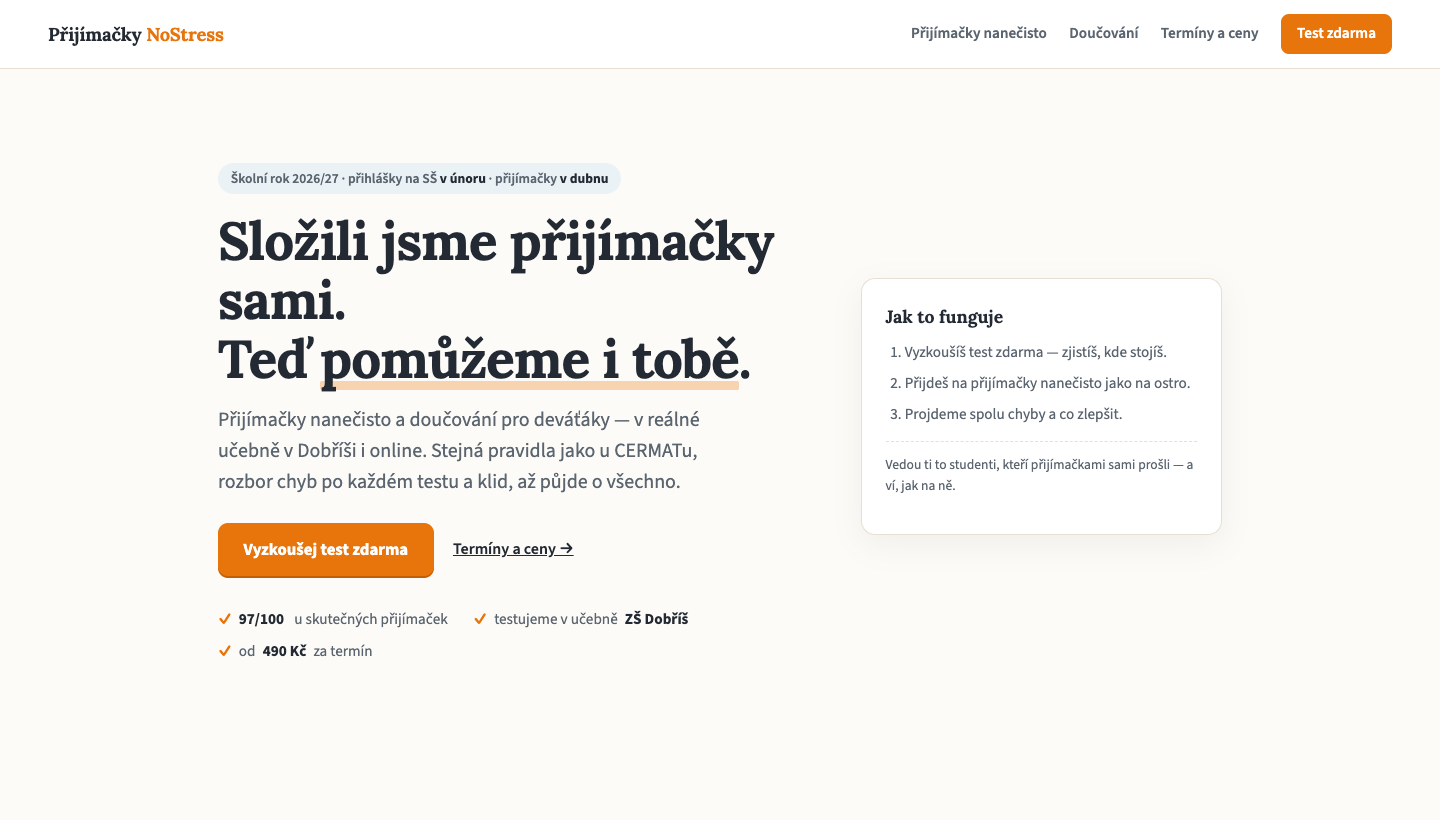
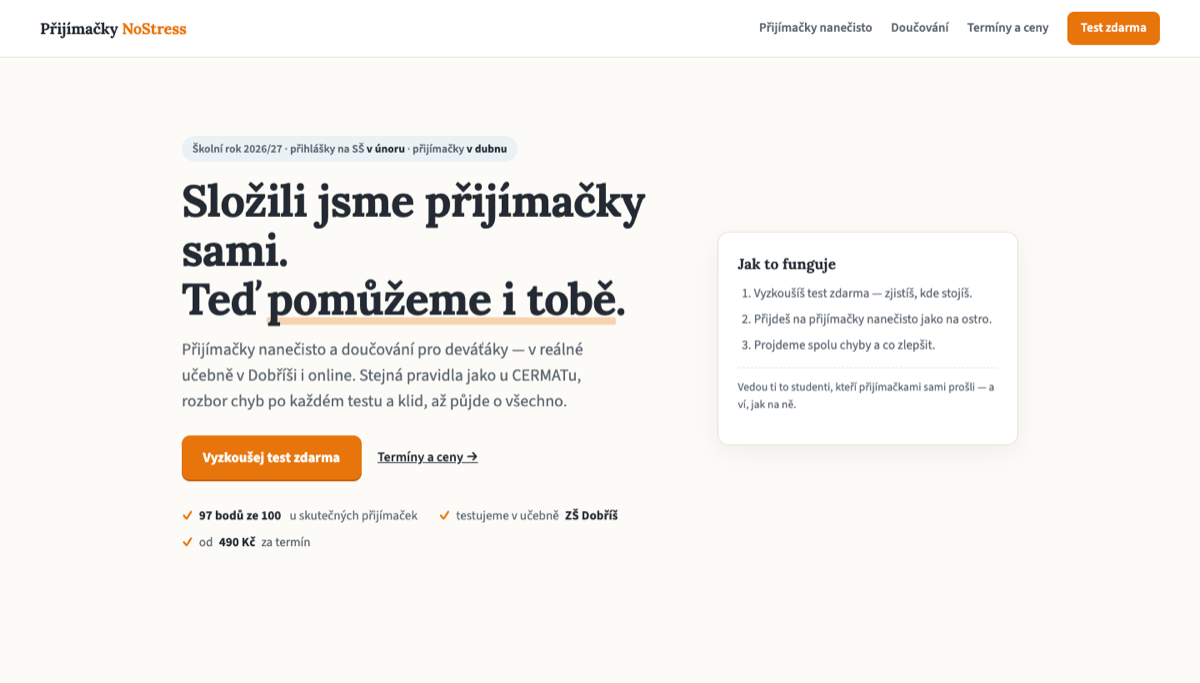
v2: teach-to-fish layer — §13 Doing this yourself, §12 kitchen-reveal, With-AI roadmap recipes, 97-points + hero glosses, renumber to 15 sections

Changed region(s): [[0.1542, 0.7379, 0.5242, 0.7687]]

diff --git a/index.html b/index.html
@@ -42,13 +42,14 @@
         <li><a href="#findings"><span class="toc-num">5</span>What's holding you back</a></li>
         <li><a href="#audit"><span class="toc-num">6</span>UX/UI audit</a></li>
         <li><a href="#styleguide"><span class="toc-num">7</span>A mini style guide</a></li>
-        <li><a href="#hero"><span class="toc-num">8</span>Hero: before &amp; after</a></li>
+        <li><a href="#hero"><span class="toc-num">8</span>Top banner (hero): before &amp; after</a></li>
         <li><a href="#blueprint"><span class="toc-num">9</span>The ground-up blueprint</a></li>
         <li><a href="#market"><span class="toc-num">10</span>Market &amp; prices</a></li>
         <li><a href="#roadmap"><span class="toc-num">11</span>Roadmap</a></li>
         <li><a href="#showcase"><span class="toc-num">12</span>How this was made</a></li>
-        <li><a href="#caveats"><span class="toc-num">13</span>Caveats</a></li>
-        <li><a href="#appendix"><span class="toc-num">14</span>Appendices</a></li>
+        <li><a href="#diy"><span class="toc-num">13</span>Doing this yourself, with AI</a></li>
+        <li><a href="#caveats"><span class="toc-num">14</span>Caveats</a></li>
+        <li><a href="#appendix"><span class="toc-num">15</span>Appendices</a></li>
       </ol>
     </nav>
     <details class="toc-mobile">
@@ -62,13 +63,14 @@
           <li><a href="#findings"><span class="toc-num">5</span>What's holding you back</a></li>
           <li><a href="#audit"><span class="toc-num">6</span>UX/UI audit</a></li>
           <li><a href="#styleguide"><span class="toc-num">7</span>A mini style guide</a></li>
-          <li><a href="#hero"><span class="toc-num">8</span>Hero: before &amp; after</a></li>
+          <li><a href="#hero"><span class="toc-num">8</span>Top banner (hero): before &amp; after</a></li>
           <li><a href="#blueprint"><span class="toc-num">9</span>The ground-up blueprint</a></li>
           <li><a href="#market"><span class="toc-num">10</span>Market &amp; prices</a></li>
           <li><a href="#roadmap"><span class="toc-num">11</span>Roadmap</a></li>
           <li><a href="#showcase"><span class="toc-num">12</span>How this was made</a></li>
-          <li><a href="#caveats"><span class="toc-num">13</span>Caveats</a></li>
-          <li><a href="#appendix"><span class="toc-num">14</span>Appendices</a></li>
+          <li><a href="#diy"><span class="toc-num">13</span>Doing this yourself, with AI</a></li>
+          <li><a href="#caveats"><span class="toc-num">14</span>Caveats</a></li>
+          <li><a href="#appendix"><span class="toc-num">15</span>Appendices</a></li>
         </ol>
       </nav>
     </details>
@@ -86,6 +88,7 @@
         <li><strong>The one urgent thing: the site is frozen in last season.</strong> The free-test page thanks November and offers signup for March; the homepage leads with an expired April notice stamped with today's date. Parents researching <em>next</em> year — right now, in June — read this as "they've wound down."</li>
         <li><strong>You do not need a rebuild.</strong> The expensive problems are small: a season reset, share previews, a price table, a font fix, a typo, a domain email. Quick wins inside your current WordPress; the blueprint in section 9 is the target picture for later.</li>
         <li><strong>Your market position is genuinely good:</strong> the big national players (Scio, online courses) cannot offer a real exam room in Dobříš run by people who just took the exam. Lean into local + personal.</li>
+        <li><strong>And one thing beyond the fix list:</strong> section 12 shows how AI made this report; section 13 shows how you can do the same for your business — with the ~$20 (≈500 Kč) monthly plan you already have.</li>
       </ul>
       <p>How to read the labels in this report:
         <span class="chip chip-observed">Observed</span> = we verified it ourselves today (June 11, 2026), with a source.
@@ -97,7 +100,7 @@
     <section id="about" aria-labelledby="about-h">
       <h2 id="about-h"><span class="secnum">2</span>What this is (and isn't)</h2>
       <p>This is an outside-in review of <a href="https://prijimackynostress.cz/">prijimackynostress.cz</a> and the business behind it: mock entrance exams (přijímačky nanečisto), tutoring (doučování), and a free sample test (test zdarma) for 9th-graders preparing for the unified entrance exam (jednotná přijímací zkouška).</p>
-      <p>It is <strong>not</strong> a school grade and not a list of demands. It is what a mentor would tell you over coffee, written down with evidence. We looked at your website, your market, and your prices — from the outside, in one afternoon. We did not see your bookings, your finances, or your customers' messages. Where we guess, we say so.</p>
+      <p>It is <strong>not</strong> a school grade and not a list of demands. It is what a mentor would tell you over coffee, written down with evidence. We looked at your website, your market, and your prices — from the outside. We did not see your bookings, your finances, or your customers' messages. Where we guess, we say so. And from section 11 on, every recommendation also shows <em>how to do it yourself with AI</em> — that part is the real gift here.</p>
     </section>
 
     <!-- ============ 3 WHAT'S WORKING ============ -->
@@ -111,7 +114,7 @@
       </div>
       <div class="finding">
         <div class="finding-head"><h3>The peer-credibility angle</h3><span class="chip chip-observed">Observed</span></div>
-        <p>"We just took this exam ourselves — and scored 97/100" is something no adult-run course can say. Parents buy trust; students buy someone who speaks their language. You have both in one story.</p>
+        <p>"We just took this exam ourselves — and scored 97 of 100 points" is something no adult-run course can say. Parents buy trust; students buy someone who speaks their language. You have both in one story.</p>
       </div>
       <div class="finding">
         <div class="finding-head"><h3>Real testimonials, not marketing quotes</h3><span class="chip chip-observed">Observed</span></div>
@@ -217,7 +220,7 @@
       <p><strong>The 20-point design checklist flagged 9 of 20 points</strong> — mid-range. One honest caveat: this is a heuristic checklist, not a law of nature. It can't see your customers, and it scores conventions, not taste. We use it to find discussion points, not to grade you.</p>
       <ul>
         <li><strong>What passed:</strong> spacing and alignment are consistent, content widths are readable, the layout adapts properly to mobile, your section cards have character, no tacky gradient buttons.</li>
-        <li><strong>What the checklist flagged, in order of impact:</strong> no clear call-to-action above the fold; the hero is a stock-photo-with-slogan pattern that says <em>mood</em> but not <em>offer</em>; body text is Roboto (the default font of the internet — your display serif has personality, your body text doesn't); call-to-action colors change from section to section (orange, black, blue, green); icons mix emoji with line icons.</li>
+        <li><strong>What the checklist flagged, in order of impact:</strong> no clear call-to-action above the fold (the part visible before scrolling); the hero — the big top banner of the homepage — is a stock-photo-with-slogan pattern that says <em>mood</em> but not <em>offer</em>; body text is Roboto (the default font of the internet — your display serif has personality, your body text doesn't); call-to-action colors change from section to section (orange, black, blue, green); icons mix emoji with line icons.</li>
       </ul>
 
       <h3>What a first-time parent actually sees</h3>
@@ -251,7 +254,7 @@
 
       <h3>Five usability observations (Krug walkthrough)</h3>
       <ol>
-        <li><strong>The homepage knows who you are, but not what it wants from the visitor.</strong> Looking at the first screen: logo, menu, "LETOS BEZ STRESU!" — and then an operations notice. My eye searches for "what do I do here?" and finds nothing until I scroll. Every landing visit starts with admin noise instead of the offer. <em>Change: hero = one sentence of offer + one button (the free test). Announcements move to a thin banner.</em></li>
+        <li><strong>The homepage knows who you are, but not what it wants from the visitor.</strong> Looking at the first screen: logo, menu, "LETOS BEZ STRESU!" — and then an operations notice. My eye searches for "what do I do here?" and finds nothing until I scroll. Every landing visit starts with admin noise instead of the offer. <em>Change: top banner (hero) = one sentence of offer + one button (the free test). Announcements move to a thin banner.</em></li>
         <li><strong>The three-second test fails on the slogan.</strong> "This year without stress!" sets a mood but a rushed parent can't tell in three seconds: exam prep, 9th grade, Dobříš, from 490 Kč. The information exists — lower on the page. <em>Change: subheadline that says who/what/where in plain words (section 9.6 has three drafts).</em></li>
         <li><strong>The highest-intent moment splits into two doors.</strong> Booking a single session opens a proper checkout; booking a package opens a Google Form. The buyer with the most money to spend gets the most improvised path — a classic "wait, which one?" moment at exactly the wrong time.</li>
         <li><strong>Stale dates drain trust silently.</strong> Past sessions presented as "nearest dates" + an expired notice stamped with today's date = the site looks abandoned even though the business isn't. For a service parents trust with their kid's future, "is this still running?" is the most expensive doubt possible.</li>
@@ -298,8 +301,8 @@
 
     <!-- ============ 8 HERO BEFORE/AFTER ============ -->
     <section id="hero" aria-labelledby="hero-h">
-      <h2 id="hero-h"><span class="secnum">8</span>Homepage hero: before &amp; after</h2>
-      <p class="section-intro">One screen, redesigned for the question every visitor brings: <em>"Is this for my kid, and what do I do next?"</em></p>
+      <h2 id="hero-h"><span class="secnum">8</span>Homepage top banner (the "hero"): before &amp; after</h2>
+      <p class="section-intro">The hero is the first screen of a website — the part a visitor sees before any scrolling. One screen, redesigned for the question every visitor brings: <em>"Is this for my kid, and what do I do next?"</em></p>
 
       <div class="figure-pair">
         <figure>
@@ -307,7 +310,7 @@
           <figcaption><strong>Before</strong> — mood without an offer; the first button is below the fold. <span class="stamp">Captured June 11, 2026.</span></figcaption>
         </figure>
         <figure>
-          <img src="assets/after-hero-mockup.png" alt="After: proposed hero — headline 'Složili jsme přijímačky sami. Teď pomůžeme i tobě.', subline describing mock exams in Dobříš and online, an orange button 'Vyzkoušej test zdarma', a trust row with 97/100, ZŠ Dobříš and 490 Kč, and a 'Jak to funguje' side card." width="1200" height="683">
+          <img src="assets/after-hero-mockup.png" alt="After: proposed top banner — headline 'Složili jsme přijímačky sami. Teď pomůžeme i tobě.', subline describing mock exams in Dobříš and online, an orange button 'Vyzkoušej test zdarma', a trust row with 97 bodů ze 100, ZŠ Dobříš and 490 Kč, and a 'Jak to funguje' side card." width="1200" height="683">
           <figcaption><strong>After</strong> — a working proposal, built with the section-7 tokens. <a href="mockups/hero.html">Open it live, full-screen →</a></figcaption>
         </figure>
       </div>
@@ -316,7 +319,7 @@
       <ol>
         <li><strong>The headline says the one thing only you can say.</strong> „Složili jsme přijímačky sami. Teď pomůžeme i tobě." — your unfair advantage, in the first second. „Letos bez stresu!" becomes the supporting promise, not the whole message.</li>
         <li><strong>One orange button: the free test.</strong> The single lowest-risk next step for a new visitor, top right in the nav and front-center in the hero. Everything else is a quiet text link.</li>
-        <li><strong>The trust row answers the three parent doubts in one line:</strong> does it work (97/100), is it real (a real classroom at ZŠ Dobříš), what does it cost (from 490 Kč). No scrolling required.</li>
+        <li><strong>The trust row — the line of proof points under the headline — answers the three parent doubts at once:</strong> does it work (97 of 100 points), is it real (a real classroom at ZŠ Dobříš), what does it cost (from 490 Kč). No scrolling required.</li>
         <li><strong>The season chip replaces stale announcements.</strong> „Přihlášky v únoru · přijímačky v dubnu" is true all year and quietly says <em>we know the calendar that rules your family's next 10 months</em>. Operational notices move to a thin banner only when actually current.</li>
       </ol>
       <p>Try the <a href="mockups/hero.html">live version</a> on your phone — it's built mobile-first, because that's where parents will see it (today's mobile homepage opens with an expired notice instead; see section 6).</p>
@@ -369,7 +372,7 @@
       <h3>9.3 Modules and seams: build from a few deep blocks</h3>
       <p>From software design (John Ousterhout): build from <em>a few blocks that each do one big job behind a simple face</em>. You drop a block into a page and fill in a short form — you never rebuild the logic. This applies to your content too: one testimonial format reused everywhere beats ten hand-made quotes.</p>
       <ul>
-        <li><strong>HeroBlock</strong> — headline + subline + one button. Reused at the top of every page.</li>
+        <li><strong>HeroBlock</strong> (the top banner) — headline + subline + one button. Reused at the top of every page.</li>
         <li><strong>PriceTable</strong> — session + package prices from <em>one source</em>. Edit once, updates on Home, Mock exams, and Dates &amp; prices.</li>
         <li><strong>TrustStrip</strong> — thin row under the hero: schools, student count, rating.</li>
         <li><strong>TestimonialCard</strong> — quote + full name + school + photo + permission flag. The single shape behind Reviews and the homepage.</li>
@@ -399,7 +402,7 @@
       <p>You already run WordPress + Elementor + WooCommerce: booking and card payment for a 490 Kč session work <em>today</em>, and you can edit pages yourselves between your own exams. Your real problems — package price visibility, trust signals, Gmail, missing structured data, a fragile free-test path — are content and settings fixes. Switching platforms would not fix a single one of them.</p>
       <p>A static or managed site (Framer, Webflow, plain HTML) would buy you speed, fewer moving parts, and near-zero maintenance — but it costs a full rebuild during your own exam year, and you would have to re-solve booking and payments, which WooCommerce already handles. <strong>Recommendation: stay on WordPress now.</strong> Spend the saved effort on the five quick wins and one blog post a month. Revisit only if WordPress upkeep starts eating real time.</p>
 
-      <h3>9.6 Three hero headline directions (drafts to discuss)</h3>
+      <h3>9.6 Three headline directions for the top banner (drafts to discuss)</h3>
       <ol>
         <li><strong>Peer-proof:</strong> „Složili jsme přijímačky sami. Teď pomůžeme i tobě." <span class="small">(We passed the entrance exams ourselves. Now we'll help you too.)</span> — turns "two 19-year-olds" from a doubt into the reason to trust you.</li>
         <li><strong>Outcome:</strong> „Dostaň se na střední, kterou si vybereš." <span class="small">(Get into the high school you choose.)</span> — names the real goal the parent is paying for.</li>
@@ -481,7 +484,7 @@
       <ul>
         <li><strong>You win on price and entry barrier.</strong> <span class="chip chip-observed">Observed</span> A family can try you for 490 Kč. The market leader asks 14 500 Kč upfront. That is not just cheaper — it is a completely different decision for the parent: no sunk cost, no leap of faith.</li>
         <li><strong>You win on geography — if you say it loudly.</strong> <span class="chip chip-observed">Observed</span> Every national player is online or big-city. A real exam room at ZŠ Dobříš with zero commute is something they cannot copy without local partners. Right now the site whispers this; it should shout it.</li>
-        <li><strong>You win on peer credibility.</strong> <span class="chip chip-observed">Observed</span> "Scored 97/100 on this exact exam" beats "our experienced lecturers" for a 15-year-old. No national brand can say it.</li>
+        <li><strong>You win on peer credibility.</strong> <span class="chip chip-observed">Observed</span> "Scored 97 of 100 points on this exact exam" beats "our experienced lecturers" for a 15-year-old. No national brand can say it.</li>
         <li><strong>You lose on breadth and continuity.</strong> <span class="chip chip-observed">Observed</span> Season-long courses with homework support (to-das, zkousky-nanecisto) serve families who want full-service prep. Don't chase them — position as the honest check-up: "find out where you really stand, before or alongside any course."</li>
         <li><strong>You lose on search visibility — for now.</strong> <span class="chip chip-inferred">Inferred</span> Years of SEO put the big brands first on Google. Your channel is the one they can't use: school corridors, class WhatsApp groups, teachers, and the Dobříš word-of-mouth network. Treat local presence as your main distribution, with the website as the place it converts.</li>
       </ul>
@@ -498,7 +501,7 @@
     <!-- ============ 11 ROADMAP ============ -->
     <section id="roadmap" aria-labelledby="roadmap-h">
       <h2 id="roadmap-h"><span class="secnum">11</span>Roadmap: Now / Next / Later</h2>
-      <p class="section-intro">Everything above, turned into a sequence two students can actually do. Effort is honest; impact is our judgment <span class="chip chip-inferred">Inferred</span>. Each row points back to its evidence.</p>
+      <p class="section-intro">Everything above, turned into a sequence two students can actually do. Effort is honest; impact is our judgment <span class="chip chip-inferred">Inferred</span>. Each row points back to its evidence. New in this version: every row carries a <strong>With AI</strong> line — how to do the task with the ~$20 AI plan you already have. Those lines assume the ten-minute business file from section 13, and any time notes in them are honest estimates, not promises.</p>
 
       <div class="roadmap-stage">
         <h3><span class="stage-pill">Now</span> June — wake the site up <span class="effort">(≈ 2–3 evenings total)</span></h3>
@@ -506,12 +509,12 @@
           <table>
             <thead><tr><th>Do</th><th class="num">Effort</th><th>Why</th></tr></thead>
             <tbody>
-              <tr><td><strong>Season reset:</strong> make the free test evergreen (delivered by email, not tied to an event), auto-hide past dates, retire the April notice</td><td class="num">1 evening</td><td>The frozen-season finding — next-year parents are searching <em>now</em>, and the site tells them you're gone</td></tr>
-              <tr><td><strong>SEO plugin</strong> (Rank Math/Yoast): meta descriptions, share images (OG), short titles, LocalBusiness + FAQ markup</td><td class="num">2 hours</td><td>The link-preview and rich-results findings — makes every WhatsApp share and Google result work for you</td></tr>
-              <tr><td><strong>Fix the font loading</strong> (regenerate Elementor fonts over HTTPS) + the „PŘÍJÍMAČKY" H1 typo</td><td class="num">30 min</td><td>The font and typo findings — visible quality, trivial cost</td></tr>
-              <tr><td><strong>Install GA4 + Search Console</strong></td><td class="num">1 evening</td><td>The analytics finding — you can't improve what you can't see</td></tr>
-              <tr><td><strong>Legal afternoon:</strong> IČO in the footer, cookie consent plugin, testimonial consent or „Václav S." format</td><td class="num">1 afternoon</td><td>The legal finding — cheap now, expensive later</td></tr>
-              <tr><td><strong>Domain email</strong> (ahoj@…) forwarding to Gmail</td><td class="num">1 hour</td><td>The email finding — quiet trust signal at the front door</td></tr>
+              <tr><td><strong>Season reset:</strong> make the free test evergreen (delivered by email, not tied to an event), auto-hide past dates, retire the April notice<p class="withai"><strong>With AI:</strong> paste the page text into your AI. Ask for an evergreen version plus a list of every dated detail it found. Check that list against the live page yourself, then edit in Elementor.</p></td><td class="num">1 evening</td><td>The frozen-season finding — next-year parents are searching <em>now</em>, and the site tells them you're gone</td></tr>
+              <tr><td><strong>SEO plugin</strong> (Rank Math/Yoast): meta descriptions, share images (OG), short titles, LocalBusiness + FAQ markup<p class="withai"><strong>With AI:</strong> for setup, ask for steps for your exact WordPress and paste errors back. Then per page: give it your business file and the page text, ask for three meta descriptions under 155 characters — pick one; you know your parents best.</p></td><td class="num">2 hours</td><td>The link-preview and rich-results findings — makes every WhatsApp share and Google result work for you</td></tr>
+              <tr><td><strong>Fix the font loading</strong> (regenerate Elementor fonts over HTTPS) + the „PŘÍJÍMAČKY" H1 typo<p class="withai"><strong>With AI:</strong> ask for click-by-click steps to regenerate Elementor's fonts over HTTPS; paste a screenshot if you get stuck. The typo is faster by hand.</p></td><td class="num">30 min</td><td>The font and typo findings — visible quality, trivial cost</td></tr>
+              <tr><td><strong>Install GA4 + Search Console</strong><p class="withai"><strong>With AI:</strong> ask for a step-by-step for your exact site and do it together, pasting anything confusing back. Then once a month: paste the numbers in and ask what changed.</p></td><td class="num">1 evening</td><td>The analytics finding — you can't improve what you can't see</td></tr>
+              <tr><td><strong>Legal afternoon:</strong> IČO in the footer, cookie consent plugin, testimonial consent or „Václav S." format<p class="withai"><strong>With AI:</strong> it drafts the Czech parental-consent form and a cookie-plugin shortlist — drafts only: have an adult you trust read the consent text before you use it.</p></td><td class="num">1 afternoon</td><td>The legal finding — cheap now, expensive later</td></tr>
+              <tr><td><strong>Domain email</strong> (ahoj@…) forwarding to Gmail<p class="withai"><strong>With AI:</strong> mostly clicking in your domain admin. Ask for the exact steps for your provider; paste errors when stuck.</p></td><td class="num">1 hour</td><td>The email finding — quiet trust signal at the front door</td></tr>
             </tbody>
           </table>
         </div>
@@ -523,12 +526,12 @@
           <table>
             <thead><tr><th>Do</th><th class="num">Effort</th><th>Why</th></tr></thead>
             <tbody>
-              <tr><td><strong>New hero + one action color</strong> per sections 7–8 (the mockup is a working start)</td><td class="num">1–2 days</td><td>Audit — the first screen finally sells</td></tr>
-              <tr><td><strong>Visible price table</strong> (1/3/6/9 sessions) + packages as real checkout products + „doučování od X Kč"</td><td class="num">½ day</td><td>The pricing and checkout findings — removes friction exactly where money changes hands</td></tr>
-              <tr><td><strong>Google Business Profile + Mapy.cz listing</strong></td><td class="num">1 evening</td><td>Section 10 — "doučování Dobříš" on the map likely beats classic SEO locally</td></tr>
-              <tr><td><strong>Email nurture:</strong> welcome email + monthly tips for the free-test list</td><td class="num">½ day</td><td>Section 9.4 — turns the lead magnet into bookings by October</td></tr>
-              <tr><td><strong>Two blog posts before October</strong> („Jak se připravit na přijímačky 2027", „Termíny, přihlášky a DiPSy 2027")</td><td class="num">2 evenings</td><td>Section 9.2 — the only channel that compounds; September searches start it</td></tr>
-              <tr><td><strong>Collect consented photo testimonials</strong> at autumn sessions (a one-page consent form)</td><td class="num">ongoing</td><td>The legal finding + section 3 — your strongest proof, made legal and stronger</td></tr>
+              <tr><td><strong>New hero (the homepage top banner) + one action color</strong> per sections 7–8 (the mockup is a working start)<p class="withai"><strong>With AI:</strong> show it the section-8 mockup and your current page; ask for an Elementor build checklist. Build one block at a time, comparing against the mockup after each.</p></td><td class="num">1–2 days</td><td>Audit — the first screen finally sells</td></tr>
+              <tr><td><strong>Visible price table</strong> (1/3/6/9 sessions) + packages as real checkout products + „doučování od X Kč"<p class="withai"><strong>With AI:</strong> the price levels are your call — ask for three package-pricing options with reasoning, never for the decision. Then give it your final prices and ask for clean table copy.</p></td><td class="num">½ day</td><td>The pricing and checkout findings — removes friction exactly where money changes hands</td></tr>
+              <tr><td><strong>Google Business Profile + Mapy.cz listing</strong><p class="withai"><strong>With AI:</strong> ask for the exact setup steps for both listings; let it draft your business description from the business file — then trim it until it sounds like you.</p></td><td class="num">1 evening</td><td>Section 10 — "doučování Dobříš" on the map likely beats classic SEO locally</td></tr>
+              <tr><td><strong>Email nurture:</strong> welcome email + monthly tips for the free-test list<p class="withai"><strong>With AI:</strong> write the welcome email yourself in five sentences first. Ask for two friendlier variants and one shorter one. Send the one that sounds like you — because it is.</p></td><td class="num">½ day</td><td>Section 9.4 — turns the lead magnet into bookings by October</td></tr>
+              <tr><td><strong>Two blog posts before October</strong> („Jak se připravit na přijímačky 2027", „Termíny, přihlášky a DiPSy 2027")<p class="withai"><strong>With AI:</strong> first write five bullets yourself — what you would tell a parent. Then ask it to grow them into a draft. Fix every line that does not sound like you.</p></td><td class="num">2 evenings</td><td>Section 9.2 — the only channel that compounds; September searches start it</td></tr>
+              <tr><td><strong>Collect consented photo testimonials</strong> at autumn sessions (a one-page consent form)<p class="withai"><strong>With AI:</strong> it drafts the one-page consent form and the message to parents; collecting signatures and photos is human work — yours.</p></td><td class="num">ongoing</td><td>The legal finding + section 3 — your strongest proof, made legal and stronger</td></tr>
             </tbody>
           </table>
         </div>
@@ -551,14 +554,14 @@
       </div>
 
       <div class="callout">
-        <p><strong>If you do only three things:</strong> the season reset, the SEO plugin, and the price table. One week of evenings, and the site goes from "are they still running?" to "this is exactly what we need, and it costs 490 Kč to find out."</p>
+        <p><strong>If you do only three things:</strong> the season reset, the SEO plugin, and the price table. One week of evenings, and the site goes from "are they still running?" to "this is exactly what we need, and it costs 490 Kč to find out." Every one of them has a With-AI line above — none needs more than the AI plan you already pay for.</p>
       </div>
     </section>
 
     <!-- ============ 12 SHOWCASE ============ -->
     <section id="showcase" aria-labelledby="showcase-h">
       <h2 id="showcase-h"><span class="secnum">12</span>How this report was made</h2>
-      <p class="section-intro">This report is also a demo. Everything below was done in one afternoon by one person directing a team of AI tools. We document it honestly — including what failed — because the same approach could work for your business.</p>
+      <p class="section-intro">This report is also a demo. Version 1 was made in one afternoon by one person directing a team of AI tools; this version added a second working session. We document it honestly — including what failed — because the same approach can work for your business, and section 13 shows how.</p>
 
       <h3>The toolchain, and what each tool actually did</h3>
       <div class="table-wrap">
@@ -601,31 +604,79 @@
         <li><strong>A human reads everything last.</strong> Mark reviewed this page end-to-end before you got the link. AI drafted; a human signed.</li>
       </ul>
 
-      <h3>What this could do for <em>your</em> business</h3>
-      <p><span class="chip chip-inferred">Inferred</span> — ideas to discuss, not homework:</p>
-      <ul>
-        <li><strong>Content engine for the seasonal calendar:</strong> draft the monthly blog post ("Jak se připravit na přijímačky" series), then you fact-check and add your voice. An afternoon per month becomes an hour.</li>
-        <li><strong>Practice-material assistant:</strong> generate variations of exercise types you already teach — you stay the editor and quality gate, which is exactly the part you're best at.</li>
-        <li><strong>Parent communication:</strong> results emails, FAQ answers, booking reminders — drafted in seconds, personalized by you.</li>
-        <li><strong>The honest limit:</strong> AI output in Czech needs your native review, AI "facts" need checking, and none of it replaces what actually sells your product — two people who passed the exam, in the room.</li>
-      </ul>
+      <h3>What making this actually required</h3>
+      <p>Honestly: a paid AI-coding setup (Claude Code), a second AI (Codex) for cross-review, an automated browser for evidence — and the real ingredient, a practiced workflow built over many months. Mark's full setup is public if you're curious: <a href="https://mark-c4r.github.io/notes/factory-overview/">the factory overview</a>. Read it as the endgame museum, not the entry fee. <strong>You need none of it to start.</strong></p>
+
+      <h3>Could a ~$20 chat plan do this? Mostly yes — by hand</h3>
+      <p>The honest split is <em>by hand vs. automated</em>, not <em>possible vs. impossible</em>. Any ~$20 plan (Gemini, ChatGPT, Claude) can do the thinking parts of this report: research a market, reason about a website's weaknesses, draft every text, and critique work you paste into it — including getting a second opinion by pasting the same work into a <em>different</em> AI. What our setup added was automation: many research agents working at once, browser screenshots taken automatically, review gates that run every time, one-command publishing. That changed the speed and the strength of the evidence — <strong>not the intelligence</strong>. Which is exactly why section 13 exists.</p>
+      <p class="small">What more access would have improved (customer interviews, your analytics, mystery-shop pricing) is listed in appendix C.</p>
     </section>
 
-    <!-- ============ 13 CAVEATS ============ -->
+    <!-- ============ 13 DOING THIS YOURSELF ============ -->
+    <section id="diy" aria-labelledby="diy-h">
+      <h2 id="diy-h"><span class="secnum">13</span>Doing this yourself, with AI</h2>
+      <p class="section-intro">Skills that outlast the models. <span class="chip chip-inferred">Inferred</span> — this section is our working advice; treat it like advice from a friend who does this daily, not like a law.</p>
+
+      <p>You already use AI to ask questions. This section is about the next step: using it for real, <strong>accountable</strong> work — pages parents will read, emails that book sessions. The method has a name: <strong>assisted self-paced learning</strong>. Your business is the course. Real tasks, your own money and time on the line, results you can check within a week. We show the ropes and the common traps; you set the pace. There is no syllabus — AI is learned by doing, not by reading about doing.</p>
+      <p>One honest note before the practical part: several times in the past year, a different tool briefly had the strongest model. That is normal now. So don't build your habits on one brand — build the things that move with you: a context file, a verification habit, your own judgment. A ~$20/month (≈500 Kč) plan on any major tool — Gemini, ChatGPT, or Claude — is enough for everything in this section and every "With AI" line in section 11. On heavy days you will hit a usage limit and wait a few hours: a scheduling problem, not a wall. And you study cybernetics — you already think in systems and feedback loops. This is that, applied.</p>
+
+      <h3>13.1 The first hour: two things you'll reuse in any AI tool</h3>
+      <p><strong>1 · The business file.</strong> Write a short note (any notes app) and paste it at the start of every AI chat, in every tool:</p>
+      <ul>
+        <li><strong>What we sell:</strong> mock exams (přijímačky nanečisto) at 490 Kč, in Dobříš and online; individual tutoring (doučování)</li>
+        <li><strong>Who buys / who attends:</strong> parents of 9th-graders decide; the students attend</li>
+        <li><strong>Our voice:</strong> friendly, student-to-student, informal Czech („ty")</li>
+        <li><strong>Constraints:</strong> two founders, our own school workload, WordPress + Elementor, small budget</li>
+        <li><strong>This season's goal:</strong> one line — see below</li>
+      </ul>
+      <p>Ten minutes, once. It makes every answer measurably better, and it is the beginner version of what professionals call a context harness — it works the same in every tool, today and after the next model leapfrog.</p>
+      <p><strong>2 · The mission line.</strong> The first line of that file is the season's business outcome: <em>„Naplnit podzimní termíny."</em> (Fill the autumn dates.) "Learn AI" is not a mission — it has no finish line. Fill the dates <em>using</em> AI, and the learning happens on the way.</p>
+      <p><strong>The habit that compounds:</strong> whenever an AI result surprises you — good or bad — add one line to the file about what worked. Three months of those lines teach you more than any course.</p>
+
+      <h3>13.2 Four skills, shown by this report</h3>
+      <p class="small">The names in parentheses come from Anthropic's free <a href="https://anthropic.skilljar.com/ai-fluency-framework-foundations">AI Fluency course</a> (there is a students edition). The skills themselves are tool-independent.</p>
+
+      <h4>Handing off (Delegation)</h4>
+      <p>Before any task, one check: is it <strong>downhill</strong> — clear, with a result you can verify ("rewrite this page", "list every dated detail")? Hand it to AI. Is it <strong>uphill</strong> — vague, no way to check ("what should our price be")? Think first; ask AI for options, never for the decision. This report handed data-gathering and screenshots to AI agents; every verdict stayed human. <em>Your turn: the season-reset row in section 11.</em></p>
+
+      <h4>Explaining (Description)</h4>
+      <p>AI quality tracks the quality of what you tell it. This report ran on a folder of context files about your business; your business file from 13.1 is the same thing at one-page scale. The difference between a generic answer and a useful one is usually the context, not the model. <em>Your turn: the meta-descriptions row in section 11.</em></p>
+
+      <h4>Judging (Discernment)</h4>
+      <p>Treat every AI claim as a draft until you check it. Our own first automated check said your free-test page was dead — the verification rule caught the error, and the finding got better instead of louder (appendix A tells that story honestly). One more exercise worth a single evening: <strong>run the same real task in two different AIs and compare.</strong> You will learn more about both tools — and about the task — than any review article can tell you.</p>
+
+      <h4>Staying responsible (Diligence)</h4>
+      <p>AI drafts; the person who publishes answers for it. This rule appears twice in this report: once as a finding about your site (students' full names in testimonials — section 5), and once in how the report itself was made — a second AI flagged student names visible in our screenshots, and a human removed them before anything went online. Same rule, both directions.</p>
+
+      <h3>13.3 Keep going</h3>
+      <p>If you want a guided start, one pointer is enough: <a href="https://couchto5k.ai/">couchto5k.ai</a> — free at the time of writing (June 2026), about 10 minutes a day, designed for any major AI plan. If you want the vocabulary behind the four skills above, the <a href="https://anthropic.skilljar.com/ai-fluency-framework-foundations">AI Fluency course</a> is free and short. And if you ever try Claude, there is a good guide in Czech: <a href="https://www.marigold.cz/ai/claude-cowork-kompletni-pruvodce/">marigold.cz</a>.</p>
+      <p>Plan on roughly ten focused hours of real use before AI starts feeling like a teammate instead of a toy <span class="chip chip-inferred">Inferred</span>. The fastest way through those hours: <strong>you and Šimon show each other one AI-assisted win every week.</strong> Small, real, done — that cadence beats any course schedule.</p>
+      <p><strong>Five beginner traps</strong> (we have watched every one of these happen):</p>
+      <ul>
+        <li>Trusting an AI "fact" without checking it — always verify before you publish.</li>
+        <li>Prompting without context — the business file exists exactly for this.</li>
+        <li>Letting AI write Czech unsupervised — it is good, but your native ear is the editor.</li>
+        <li>Asking AI to <em>decide</em> instead of to <em>draft options</em> — decisions are yours.</li>
+        <li>Collecting clever prompts instead of finishing real tasks — done beats clever.</li>
+      </ul>
+      <p>And the honest limits, so this section doesn't oversell: AI-written Czech needs your read, AI claims need your check, and none of this replaces the thing that actually sells your product — two people who passed the exam, in the room.</p>
+    </section>
+
+    <!-- ============ 14 CAVEATS ============ -->
     <section id="caveats" aria-labelledby="caveats-h">
-      <h2 id="caveats-h"><span class="secnum">13</span>Caveats — read this before acting</h2>
+      <h2 id="caveats-h"><span class="secnum">14</span>Caveats — read this before acting</h2>
       <ul>
         <li><strong>Outside-in, one afternoon.</strong> We never saw your bookings, revenue, email list, or customer messages. Numbers from your perspective may change some recommendations.</li>
         <li><strong>We did not talk to your customers.</strong> Before bigger moves, ask five parents why they bought. Their words beat our guesses.</li>
         <li><strong>Prices were checked today</strong> (June 11, 2026) and can change. Each price in section 10 carries its source.</li>
-        <li><strong>AI-assisted, human-reviewed.</strong> Section 12 explains exactly which tools did what, and what their limits are.</li>
+        <li><strong>AI-assisted, human-reviewed.</strong> Section 12 explains exactly which tools did what, and what their limits are — and section 13 shows how to use the same approach yourself.</li>
         <li><strong>This link is public-but-unlisted.</strong> Search engines are asked not to index it, but anyone with the link can read it. We plan to take it down within ~30 days — save what you need.</li>
       </ul>
     </section>
 
     <!-- ============ 14 APPENDICES ============ -->
     <section id="appendix" aria-labelledby="appendix-h">
-      <h2 id="appendix-h"><span class="secnum">14</span>Appendices</h2>
+      <h2 id="appendix-h"><span class="secnum">15</span>Appendices</h2>
       <details class="appendix">
         <summary>A · How we verified the free-test finding</summary>
         <p>Our very first automated check of /testzdarma/ (12:10 today) returned a 404 — "page not found." That would have been the headline finding: <em>broken lead-gen funnel</em>. But one failed fetch isn't evidence, so the rule was: confirm on every URL variant with a real browser, or downgrade the claim.</p>
@@ -645,6 +696,7 @@
           <li><strong>Real local landscape scan</strong> — manual, 30 minutes: Dobříš/Příbram parent groups on Facebook, school notice boards, DDM course lists.</li>
           <li><strong>Mystery-shop pricing</strong> of Scio and to-das smaller packages.</li>
           <li><strong>Google Business Profile + Mapy.cz presence check</strong> — being findable on the map for "doučování Dobříš" may matter more locally than classic SEO.</li>
+          <li><strong>A native-Czech copy pass and a second human reviewer</strong> — the two quality steps this report itself would add next.</li>
         </ul>
       </details>
     </section>

diff --git a/styles.css b/styles.css
@@ -237,6 +237,17 @@ code {
 .stage-pill.later { background: var(--ink-faint); }
 .effort { font-size: var(--t-small); color: var(--ink-faint); font-variant-numeric: tabular-nums; white-space: nowrap; }
 
+/* ---------- With-AI recipe lines (roadmap) ---------- */
+
+.withai {
+  margin: 0.45rem 0 0;
+  font-size: 0.9rem;
+  color: var(--ink-soft);
+  border-left: 2px solid var(--accent-wash);
+  padding-left: 0.6rem;
+}
+.withai strong { color: var(--accent-ink); font-weight: 650; }
+
 /* ---------- Appendix ---------- */
 
 details.appendix {

diff --git a/mockups/hero.html b/mockups/hero.html
@@ -114,7 +114,7 @@
       <a class="link2" href="#">Termíny a ceny →</a>
     </div>
     <ul class="trust">
-      <li><strong>97/100</strong>&nbsp;u skutečných přijímaček</li>
+      <li><strong>97 bodů ze 100</strong>&nbsp;u skutečných přijímaček</li>
       <li>testujeme v učebně <strong>ZŠ Dobříš</strong></li>
       <li>od <strong>490 Kč</strong> za termín</li>
     </ul>